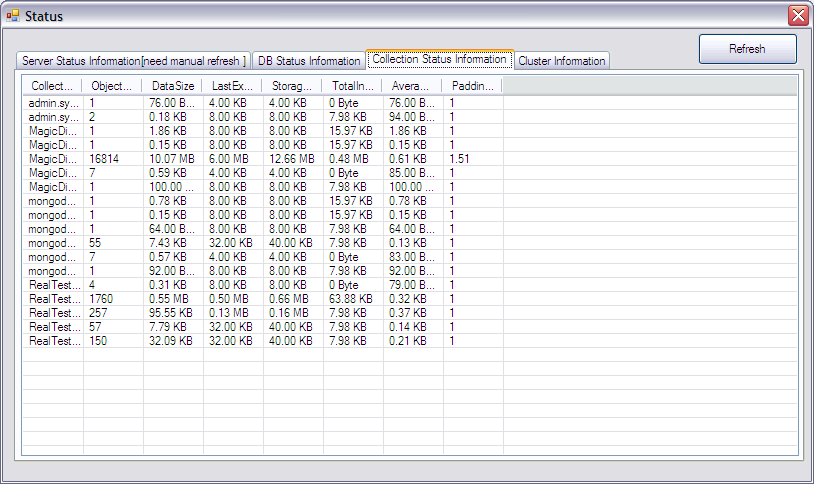
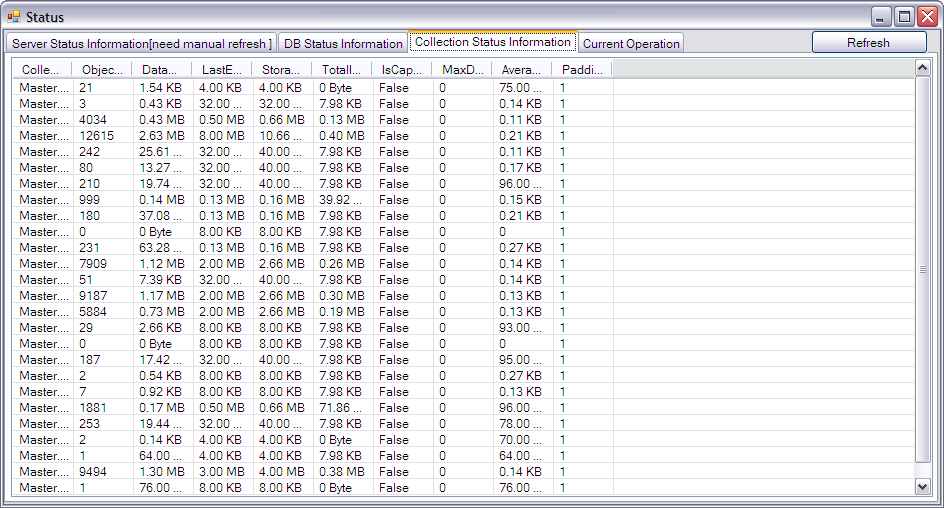
Ver 1.05 FirstVersion

diff --git a/MagicMongoDBTool/UserGuide/index.htm b/MagicMongoDBTool/UserGuide/index.htm
@@ -23,8 +23,7 @@
         }
     </style>
 </head>
-<body style="background-color: #000000; background: url('images/background.JPG'); color: #FFFFFF; margin: 0px; font-size: x-large;">
-    <span>Introduce</span>
+<body style="background-color: #000000; padding: 0px; background: url('images/background.JPG'); color: #FFFFFF; margin: 0px; font-size: x-large;">
     <table style="border-spacing: 0px;">
         <tr style="background-color: #ffbf00">
             <td>
@@ -50,6 +49,7 @@
             </td>
         </tr>
     </table>
+    <span>Introduce</span>
     <span>How to get Mongo-Cola</span>
     <table>
         <tr>
@@ -80,11 +80,11 @@
                 <font size="3" color="black">You can download the Executable File [ZIP package]from
                     GitHub: <a href="https://github.com/magicdict/MagicMongoDBTool/downloads">Downloads
                         @GitHub</a><br />
-                    Or you can download the Executable File from this website:
+<!--                    Or you can download the Executable File from this website:
                     <br />
                     <a href="http://www.magicdict.com/MongoCola.zip">Download MongoCola 1.02 from @www.magicdict.com
                         [ZIP]</a>
-                    <br />
+                    <br />-->
                     Anyone can help me to compile the source code on Mono platform? I need an executable
                     file for linux. please email me: <a href="mailto:mynightelfplayer@hotmail.com">email
                         address</a> </font>
@@ -146,7 +146,11 @@ This is the first release of MongoCola.
 ========================================================================
 Release History
 ========================================================================
-Ver 1.04 2012/03/10
+Ver 1.05 2012/04/2
+1.Change the Name of ClusterInfo to CurrentOperationInfo.
+
+========================================================================
+Ver 1.04 2012/03/7
 
 1.Open In Native Editor at Textview
 2.Compact Collection
@@ -273,6 +277,10 @@ Ver 1.01 2011/12/27
                     <br />
                     Pick the connection you registered right now, then click "OK".Now you can operate
                     the mongo server.<br />
+                    <font color="red"><b>
+                        All Status need to be refreshed manually in Mainform.(In status form,the some status will refresh automaticlly)</b>
+                    </font>
+                    <br /><br />
                     You can collapse or expansion the treeview by MenuItem:
                     <ul>
                         <li>Management -> collapse</li>
@@ -457,8 +465,9 @@ Ver 1.01 2011/12/27
                     <br />
                     <img src="images/StatusCollection.PNG" alt="" />
                     <br />
+                    <img src="images/StatusCurrentOp.PNG" alt="" />
                     <br />
-                    <font color="red"><b>Cluster is useful at a replset.<br />
+                    <font color="red"><b>Current Operation fresh 1 time per second.<br />
                         Server Status need to be refreshed manually</b></font>
                     <br />
                     <br />

diff --git a/MagicMongoDBTool/Form/frmMain.Designer.cs b/MagicMongoDBTool/Form/frmMain.Designer.cs
@@ -139,13 +139,14 @@ namespace MagicMongoDBTool
             this.panel1 = new System.Windows.Forms.Panel();
             this.panel2 = new System.Windows.Forms.Panel();
             this.panel3 = new System.Windows.Forms.Panel();
+            this.ServerStatusCtl = new MagicMongoDBTool.UserController.ctlServerStatus();
             this.txtCommand = new System.Windows.Forms.TextBox();
             this.ViewtoolStrip = new System.Windows.Forms.ToolStrip();
             this.SvrStatustoolStripButton = new System.Windows.Forms.ToolStripButton();
             this.ShellCommandtoolStripButton = new System.Windows.Forms.ToolStripButton();
             this.CollectiontoolStripButton = new System.Windows.Forms.ToolStripButton();
             this.splitter1 = new System.Windows.Forms.Splitter();
-            this.ServerStatusCtl = new MagicMongoDBTool.UserController.ctlServerStatus();
+            this.toolStripSeparator1 = new System.Windows.Forms.ToolStripSeparator();
             this.statusStripMain.SuspendLayout();
             this.menuStripMain.SuspendLayout();
             this.tabDataShower.SuspendLayout();
@@ -971,7 +972,7 @@ namespace MagicMongoDBTool
             // 
             this.lnkFile.AutoSize = true;
             this.lnkFile.Dock = System.Windows.Forms.DockStyle.Right;
-            this.lnkFile.Location = new System.Drawing.Point(445, 3);
+            this.lnkFile.Location = new System.Drawing.Point(470, 3);
             this.lnkFile.Name = "lnkFile";
             this.lnkFile.Size = new System.Drawing.Size(134, 16);
             this.lnkFile.TabIndex = 1;
@@ -986,7 +987,7 @@ namespace MagicMongoDBTool
             this.txtData.Multiline = true;
             this.txtData.Name = "txtData";
             this.txtData.ScrollBars = System.Windows.Forms.ScrollBars.Both;
-            this.txtData.Size = new System.Drawing.Size(576, 518);
+            this.txtData.Size = new System.Drawing.Size(576, 515);
             this.txtData.TabIndex = 0;
             // 
             // trvsrvlst
@@ -1030,6 +1031,14 @@ namespace MagicMongoDBTool
             this.panel3.Size = new System.Drawing.Size(886, 606);
             this.panel3.TabIndex = 2;
             // 
+            // ServerStatusCtl
+            // 
+            this.ServerStatusCtl.Location = new System.Drawing.Point(731, 51);
+            this.ServerStatusCtl.Margin = new System.Windows.Forms.Padding(4);
+            this.ServerStatusCtl.Name = "ServerStatusCtl";
+            this.ServerStatusCtl.Size = new System.Drawing.Size(128, 313);
+            this.ServerStatusCtl.TabIndex = 2;
+            // 
             // txtCommand
             // 
             this.txtCommand.Location = new System.Drawing.Point(624, 51);
@@ -1043,6 +1052,7 @@ namespace MagicMongoDBTool
             this.ViewtoolStrip.Items.AddRange(new System.Windows.Forms.ToolStripItem[] {
             this.SvrStatustoolStripButton,
             this.ShellCommandtoolStripButton,
+            this.toolStripSeparator1,
             this.CollectiontoolStripButton});
             this.ViewtoolStrip.Location = new System.Drawing.Point(0, 0);
             this.ViewtoolStrip.Name = "ViewtoolStrip";
@@ -1091,13 +1101,10 @@ namespace MagicMongoDBTool
             this.splitter1.TabIndex = 1;
             this.splitter1.TabStop = false;
             // 
-            // ServerStatusCtl
+            // toolStripSeparator1
             // 
-            this.ServerStatusCtl.Location = new System.Drawing.Point(731, 51);
-            this.ServerStatusCtl.Margin = new System.Windows.Forms.Padding(4);
-            this.ServerStatusCtl.Name = "ServerStatusCtl";
-            this.ServerStatusCtl.Size = new System.Drawing.Size(128, 313);
-            this.ServerStatusCtl.TabIndex = 2;
+            this.toolStripSeparator1.Name = "toolStripSeparator1";
+            this.toolStripSeparator1.Size = new System.Drawing.Size(6, 25);
             // 
             // frmMain
             // 
@@ -1190,7 +1197,6 @@ namespace MagicMongoDBTool
             ImportDataFromAccessToolStripButton.Click += new System.EventHandler(ImportDataFromAccessToolStripMenuItem_Click);
             OptionToolStripButton.Click += new System.EventHandler(OptionToolStripMenuItem_Click);
 #endif
-            this.ViewtoolStrip.Items.Add(new ToolStripSeparator());
             this.ViewtoolStrip.Items.Add(FirstPageToolStripButton);
             this.ViewtoolStrip.Items.Add(PrePageToolStripButton);
             this.ViewtoolStrip.Items.Add(NextPageToolStripButton);
@@ -1350,5 +1356,6 @@ namespace MagicMongoDBTool
         private Panel panel3;
         private TextBox txtCommand;
         private UserController.ctlServerStatus ServerStatusCtl;
+        private ToolStripSeparator toolStripSeparator1;
     }
 }

diff --git a/MagicMongoDBTool/Form/frmMain.cs b/MagicMongoDBTool/Form/frmMain.cs
@@ -205,7 +205,10 @@ namespace MagicMongoDBTool
             DataNaviToolStripLabel.Text = String.Empty;
             //Open ConnectionManagement Form
             SystemManager.OpenForm(new frmConnect());
+            //Load Status
             this.ServerStatusCtl.RefreshStatus(false);
+            this.ServerStatusCtl.RefreshCurrentOpr();
+
             RefreshToolStripMenuItem_Click(sender, e);
             MongoDBHelper.RunCommandComplete += new EventHandler<RunCommandEventArgs>(CommandLog);
         }
@@ -1428,7 +1431,7 @@ namespace MagicMongoDBTool
             SystemManager.GetCurrentService().Disconnect();
             MongoDBHelper._mongoSrvLst.Remove(config.ConnectionName);
             trvsrvlst.Nodes.Remove(trvsrvlst.SelectedNode);
-            DisableAllOpr();
+            RefreshToolStripMenuItem_Click(sender,e);
             if (!SystemManager.IsUseDefaultLanguage())
             {
                 this.statusStripMain.Items[0].Text = SystemManager.mStringResource.GetText(StringResource.TextType.Main_StatusBar_Text_Ready);
@@ -1446,6 +1449,15 @@ namespace MagicMongoDBTool
         private void RefreshToolStripMenuItem_Click(object sender, EventArgs e)
         {
             this.ServerStatusCtl.RefreshStatus(false);
+            this.ServerStatusCtl.RefreshCurrentOpr();
+            if (!SystemManager.IsUseDefaultLanguage())
+            {
+                this.CollectiontoolStripButton.Text = SystemManager.mStringResource.GetText(StringResource.TextType.Collection_Status_CollectionName); ;
+            }
+            else
+            {
+                this.CollectiontoolStripButton.Text = "Collection";
+            }
             DisableAllOpr();
             clearDataShower();
             MongoDBHelper.FillMongoServerToTreeView(trvsrvlst);
@@ -1489,7 +1501,7 @@ namespace MagicMongoDBTool
 
         #endregion
 
-        #region"Tools"
+        #region"工具"
         /// <summary>
         /// Options
         /// </summary>
@@ -2549,10 +2561,6 @@ namespace MagicMongoDBTool
             System.Diagnostics.Process.Start(strUrl);
         }
         #endregion
-
-
-
-
-
+        
     }
 }

diff --git a/MagicMongoDBTool/Form/frmServiceStatus.cs b/MagicMongoDBTool/Form/frmServiceStatus.cs
@@ -9,8 +9,13 @@ namespace MagicMongoDBTool
         {
             InitializeComponent();
         }
-
+        /// <summary>
+        /// 常规刷新
+        /// </summary>
         Timer refreshTimer = new Timer();
+        /// <summary>
+        /// 短时间刷新
+        /// </summary>
         Timer ShortTimer = new Timer();
 
         private void frmServiceStatus_Load(object sender, EventArgs e)
@@ -49,6 +54,7 @@ namespace MagicMongoDBTool
         private void cmdRefresh_Click(object sender, EventArgs e)
         {
             this.ServerStatusCtl.RefreshStatus(false);
+            this.ServerStatusCtl.RefreshCurrentOpr();
         }
         /// <summary>
         /// Timer停止
